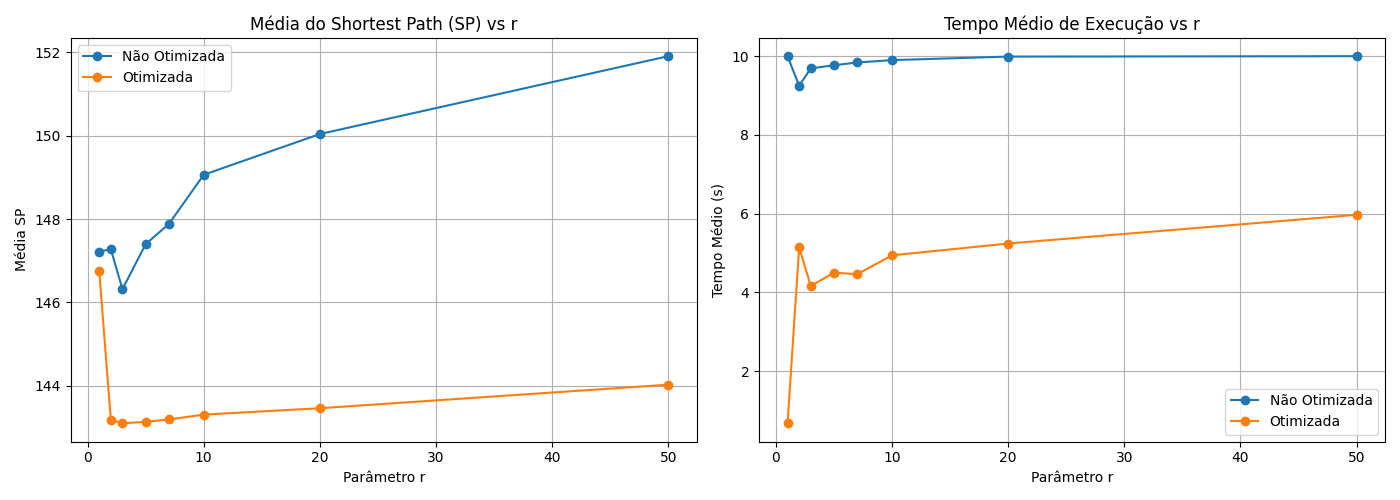
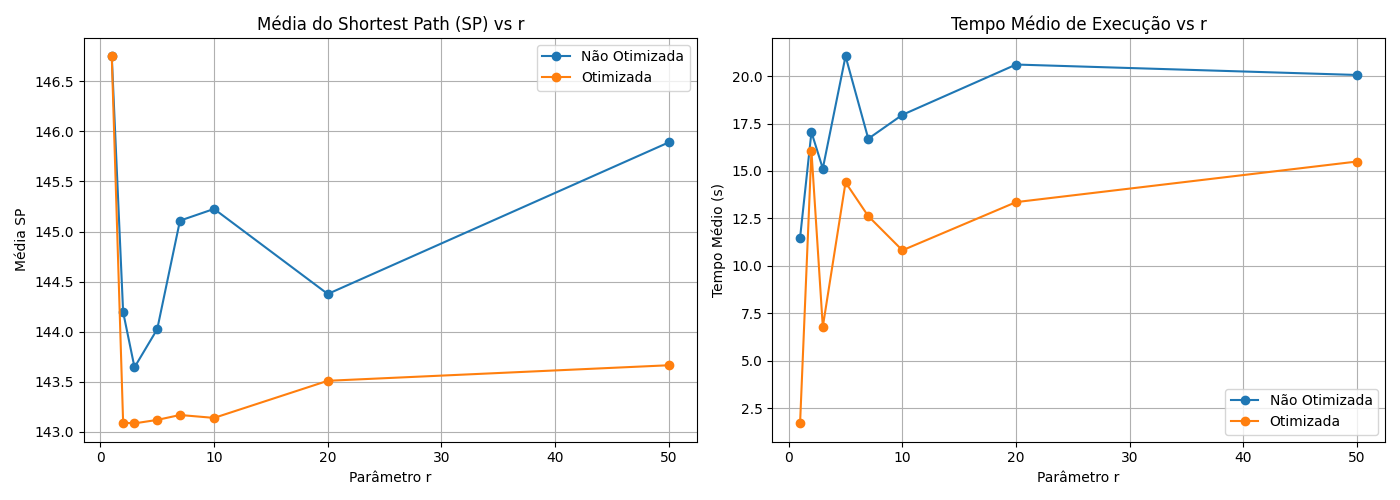
plots

diff --git a/src/results/GRASP/plots.py b/src/results/GRASP/plots.py
@@ -1,5 +1,6 @@
 import pandas as pd
 import matplotlib.pyplot as plt
+import numpy as np
 import re
 
 images_path = "images/"
@@ -7,11 +8,33 @@ images_path = "images/"
 
 # Função para extrair dados da tabela final de um ficheiro de texto
 def extrair_dados_tune(content):
-    pattern = r"(\d+)\s*\|\s*([\d.]+)\s*\|\s*([\d.]+)\s*\|\s*([\d.]+)\s*\|\s*([\d.]+)"
+    # Regex com grupos opcionais a partir do "Tempo Médio (s)"
+    pattern = (
+        r"(\d+)\s*\|\s*"  # r
+        r"([\d.]+)\s*\|\s*"  # Min SP
+        r"([\d.]+)\s*\|\s*"  # Média SP
+        r"([\d.]+)"  # Max SP
+        r"(?:\s*\|\s*([\d.]+))?"  # Tempo Médio (s) (opcional)
+        r"(?:\s*\|\s*([\d.]+))?"  # Iterações GRASP (opcional)
+        r"(?:\s*\|\s*([\d.]+))?"  # Iterações Local Search (opcional)
+    )
+
     matches = re.findall(pattern, content)
     df = pd.DataFrame(
-        matches, columns=["r", "Min SP", "Média SP", "Max SP", "Tempo Médio (s)"]
+        matches,
+        columns=[
+            "r",
+            "Min SP",
+            "Média SP",
+            "Max SP",
+            "Tempo Médio (s)",
+            "Iterações GRASP",
+            "Iterações Local Search",
+        ],
     )
+
+    # Converte para float e int, tratando campos ausentes como NaN
+    df = df.replace("", np.nan)
     df = df.astype(
         {
             "r": int,
@@ -19,8 +42,11 @@ def extrair_dados_tune(content):
             "Média SP": float,
             "Max SP": float,
             "Tempo Médio (s)": float,
+            "Iterações GRASP": float,
+            "Iterações Local Search": float,
         }
     )
+
     return df
 
 
@@ -46,8 +72,8 @@ df_30_10_opt = extrair_dados_tune(content_30_10_opt)
 # Comparação Otimizada vs Não Otimizada para 30 runs e 10 segundos
 fig, axes = plt.subplots(1, 2, figsize=(14, 5))
 
-axes[0].plot(df_30_10["r"], df_30_10["Média SP"], marker="o", label="Não Otimizada")
-axes[0].plot(df_30_10_opt["r"], df_30_10_opt["Média SP"], marker="o", label="Otimizada")
+axes[0].plot(df_10_30["r"], df_10_30["Média SP"], marker="o", label="Não Otimizada")
+axes[0].plot(df_10_30_opt["r"], df_10_30_opt["Média SP"], marker="o", label="Otimizada")
 axes[0].set_title("Média do Shortest Path (SP) vs r")
 axes[0].set_xlabel("Parâmetro r")
 axes[0].set_ylabel("Média SP")
@@ -55,10 +81,10 @@ axes[0].grid(True)
 axes[0].legend()
 
 axes[1].plot(
-    df_30_10["r"], df_30_10["Tempo Médio (s)"], marker="o", label="Não Otimizada"
+    df_10_30["r"], df_10_30["Tempo Médio (s)"], marker="o", label="Não Otimizada"
 )
 axes[1].plot(
-    df_30_10_opt["r"], df_30_10_opt["Tempo Médio (s)"], marker="o", label="Otimizada"
+    df_10_30_opt["r"], df_10_30_opt["Tempo Médio (s)"], marker="o", label="Otimizada"
 )
 axes[1].set_title("Tempo Médio de Execução vs r")
 axes[1].set_xlabel("Parâmetro r")
@@ -68,6 +94,38 @@ axes[1].legend()
 
 plt.tight_layout()
 plt.savefig(images_path + "comparacao_sp_tempo_opt_vs_normal.png")
+
+fig, axes = plt.subplots(1, 2, figsize=(14, 5))
+
+axes[0].plot(
+    df_10_30["r"], df_10_30["Iterações GRASP"], marker="o", label="Não Otimizada"
+)
+axes[0].plot(
+    df_10_30_opt["r"], df_10_30_opt["Iterações GRASP"], marker="o", label="Otimizada"
+)
+axes[0].set_title("Iterações GRASP vs r")
+axes[0].set_xlabel("Parâmetro r")
+axes[0].set_ylabel("Iterações GRASP")
+axes[0].grid(True)
+axes[0].legend()
+
+axes[1].plot(
+    df_10_30["r"], df_10_30["Iterações Local Search"], marker="o", label="Não Otimizada"
+)
+axes[1].plot(
+    df_10_30_opt["r"],
+    df_10_30_opt["Iterações Local Search"],
+    marker="o",
+    label="Otimizada",
+)
+axes[1].set_title("Iterações Local Search vs r")
+axes[1].set_xlabel("Parâmetro r")
+axes[1].set_ylabel("Iterações Local Search")
+axes[1].grid(True)
+axes[1].legend()
+
+plt.tight_layout()
+plt.savefig(images_path + "comparacao_iterations_opt_vs_normal.png")
 
 # Comparação entre 10 runs de 30 segundos e 30 runs de 10 segundos (sem otimização)
 fig, axes = plt.subplots(1, 2, figsize=(14, 5))
